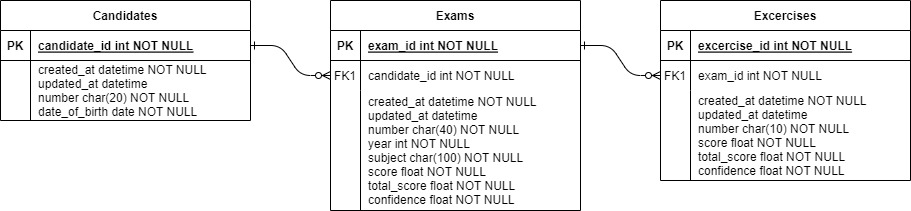
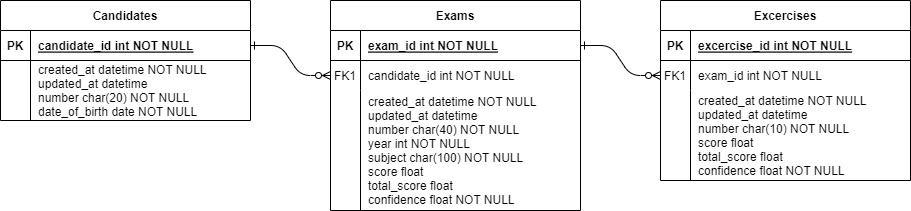
scanner handle cv null values

Changed region(s): [[0.461, 0.7962, 0.584, 0.91], [0.8299, 0.654, 0.9221, 0.7678]]

diff --git a/backend/app/api/schema.py b/backend/app/api/schema.py
@@ -1,11 +1,11 @@
 from datetime import date, datetime
 from pydantic import BaseModel
-from typing import Optional
+from typing import Optional, List
 
 
 class BaseResponse(BaseModel):
     success: bool
-    message: Optional[list[str]] = None
+    message: Optional[List[str]] = None
 
 
 class Candidate(BaseModel):
@@ -21,8 +21,8 @@ class Exam(BaseModel):
     number: str
     year: int
     subject: str
-    score: float
-    total_score: float
+    score: float = None
+    total_score: float = None
     confidence: float
     picture_path: str
     created_at: datetime
@@ -32,8 +32,8 @@ class Exam(BaseModel):
 class Exercise(BaseModel):
     id: int
     number: str
-    score: float
-    total_score: float
+    score: float = None
+    total_score: float = None
     confidence: float
     created_at: datetime
     updated_at: Optional[datetime] = None
@@ -41,11 +41,11 @@ class Exercise(BaseModel):
 
 class ExamFull(Exam):
     candidate: Candidate
-    exercises: list[Exercise]
+    exercises: List[Exercise]
 
 
 class ExamFullListResponse(BaseResponse):
-    exams: list[ExamFull]
+    exams: List[ExamFull]
 
 
 class ExamFullResponse(BaseResponse):
@@ -59,7 +59,7 @@ class LogicalExam(BaseModel):
 
 
 class LogicalExamListResponse(BaseResponse):
-    logical_exams: list[LogicalExam]
+    logical_exams: List[LogicalExam]
 
 
 class Score(BaseModel):

diff --git a/backend/app/model/model.py b/backend/app/model/model.py
@@ -38,8 +38,8 @@ class Exam(BaseModel):
     number = CharField(max_length=40)
     year = IntegerField()
     subject = CharField(max_length=100)
-    score = FloatField()
-    total_score = FloatField()
+    score = FloatField(null=True)
+    total_score = FloatField(null=True)
     confidence = FloatField()
     picture_path = CharField(max_length=255, default="")
     candidate = ForeignKeyField(Candidate, backref=const.Entity.EXAMS)
@@ -51,8 +51,8 @@ class Exam(BaseModel):
 class Exercise(BaseModel):
     id = AutoField()
     number = CharField(max_length=10)
-    score = FloatField()
-    total_score = FloatField()
+    score = FloatField(null=True)
+    total_score = FloatField(null=True)
     confidence = FloatField()
     exam = ForeignKeyField(Exam, backref=const.Entity.EXERCISES)
 

diff --git a/backend/app/cv/DigitRecognizer.py b/backend/app/cv/DigitRecognizer.py
@@ -91,7 +91,7 @@ class DigitRecognizer:
                 exercises.append(cv_res.Exercise(index, pred_class_label, total_exercise, pred_confidence))
             elif(index % column_count != 0):
 
-                total_exam = self.text_recognizer.recognize_grid_number(points_cell) # TODO: put total_exam into the exam data structure.                
+                total_exam = self.text_recognizer.recognize_grid_number(points_cell)
                 total_score, total_score_confidence = self.predict_double_number(result_cell, class_labels, model)
 
         exam = cv_res.Exam(recognized_text[0], recognized_text[3], recognized_text[4], total_score, total_exam, total_score_confidence, exercises)

diff --git a/backend/app/core/cv_result.py b/backend/app/core/cv_result.py
@@ -21,10 +21,10 @@ class Exam:
         self.exercises = exercises
 
     def calc_exercises_score(self):
-        return sum(exercise.score for exercise in self.exercises)
+        return sum(exercise.score if exercise.score is not None else 0 for exercise in self.exercises)
 
     def calc_exercises_total_score(self):
-        return sum(exercise.total_score for exercise in self.exercises)
+        return sum(exercise.total_score if exercise.total_score is not None else 0 for exercise in self.exercises)
 
 
 class Exercise:

diff --git a/backend/app/core/scanner.py b/backend/app/core/scanner.py
@@ -93,7 +93,7 @@ def validate_cv_result(cv_data):
 
     # 3 - check each exercise score with its total_score
     for exercise in cv_data.exam.exercises:
-        if exercise.score > exercise.total_score:
+        if (exercise.score if exercise.score is not None else 999) > (exercise.total_score if exercise.total_score is not None else 0):
             message.append(const.Validation.W_EXE_SCORE_EQ.format(exercise.number))
 
     return message

diff --git a/backend/app/cv/TextRecognizer.py b/backend/app/cv/TextRecognizer.py
@@ -10,7 +10,7 @@ class TextRecognizer:
     def __init__(self, debug_mode=False):
         # initialize any variables
         global DEBUG_MODE
-        DEBUG_MODE = True
+        DEBUG_MODE = debug_mode
 
         self.reader = Reader(["de"], gpu=0)
 
